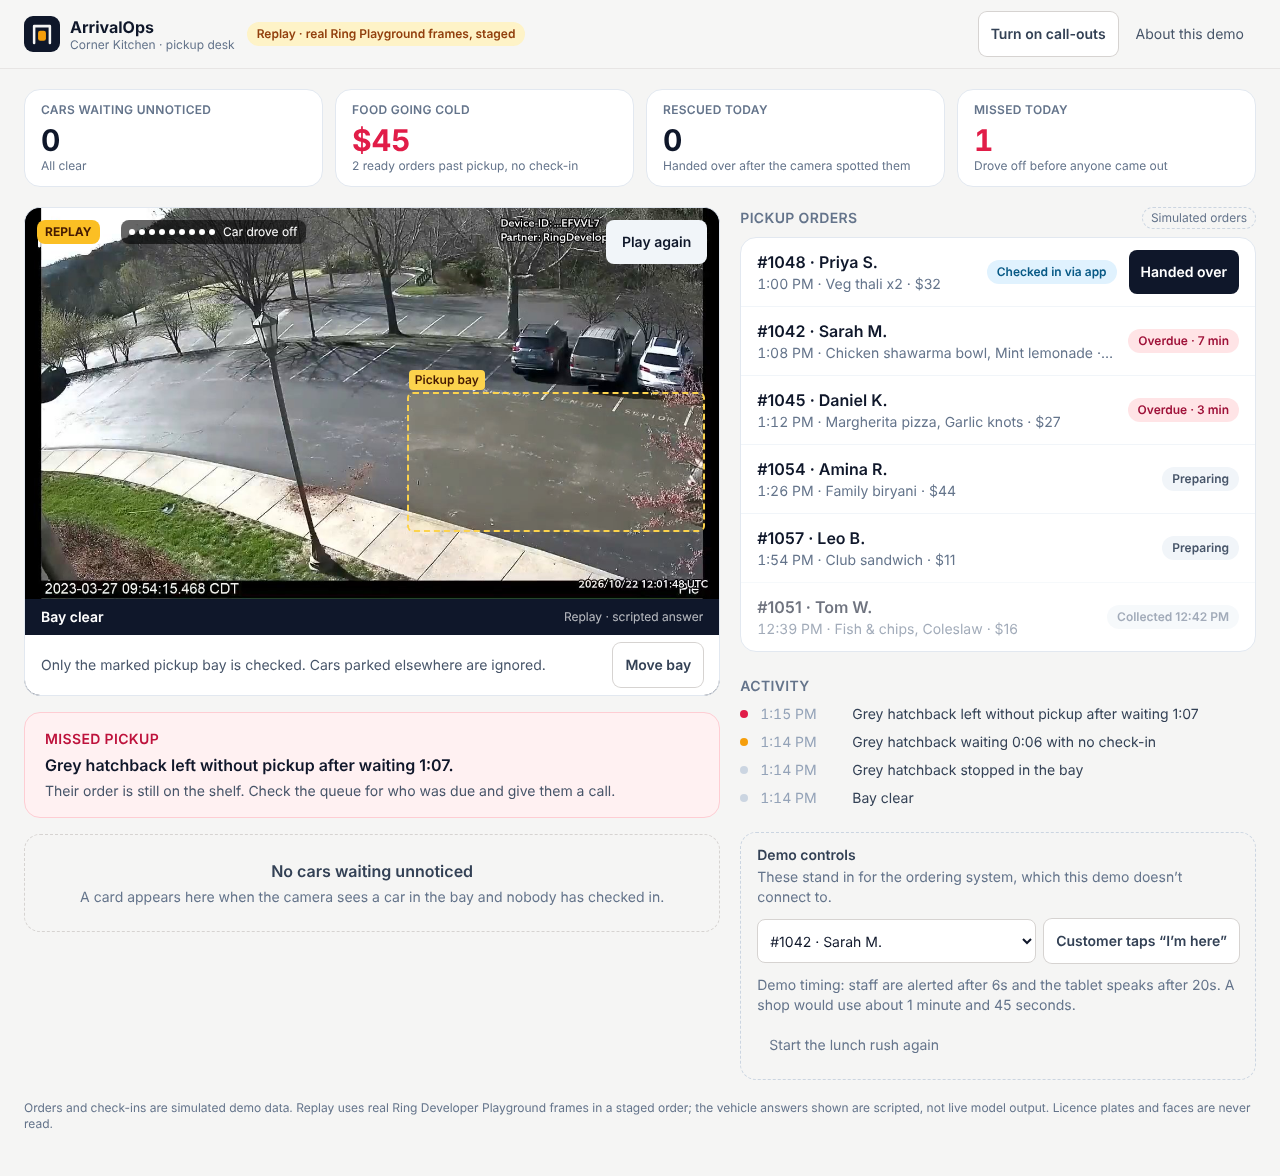
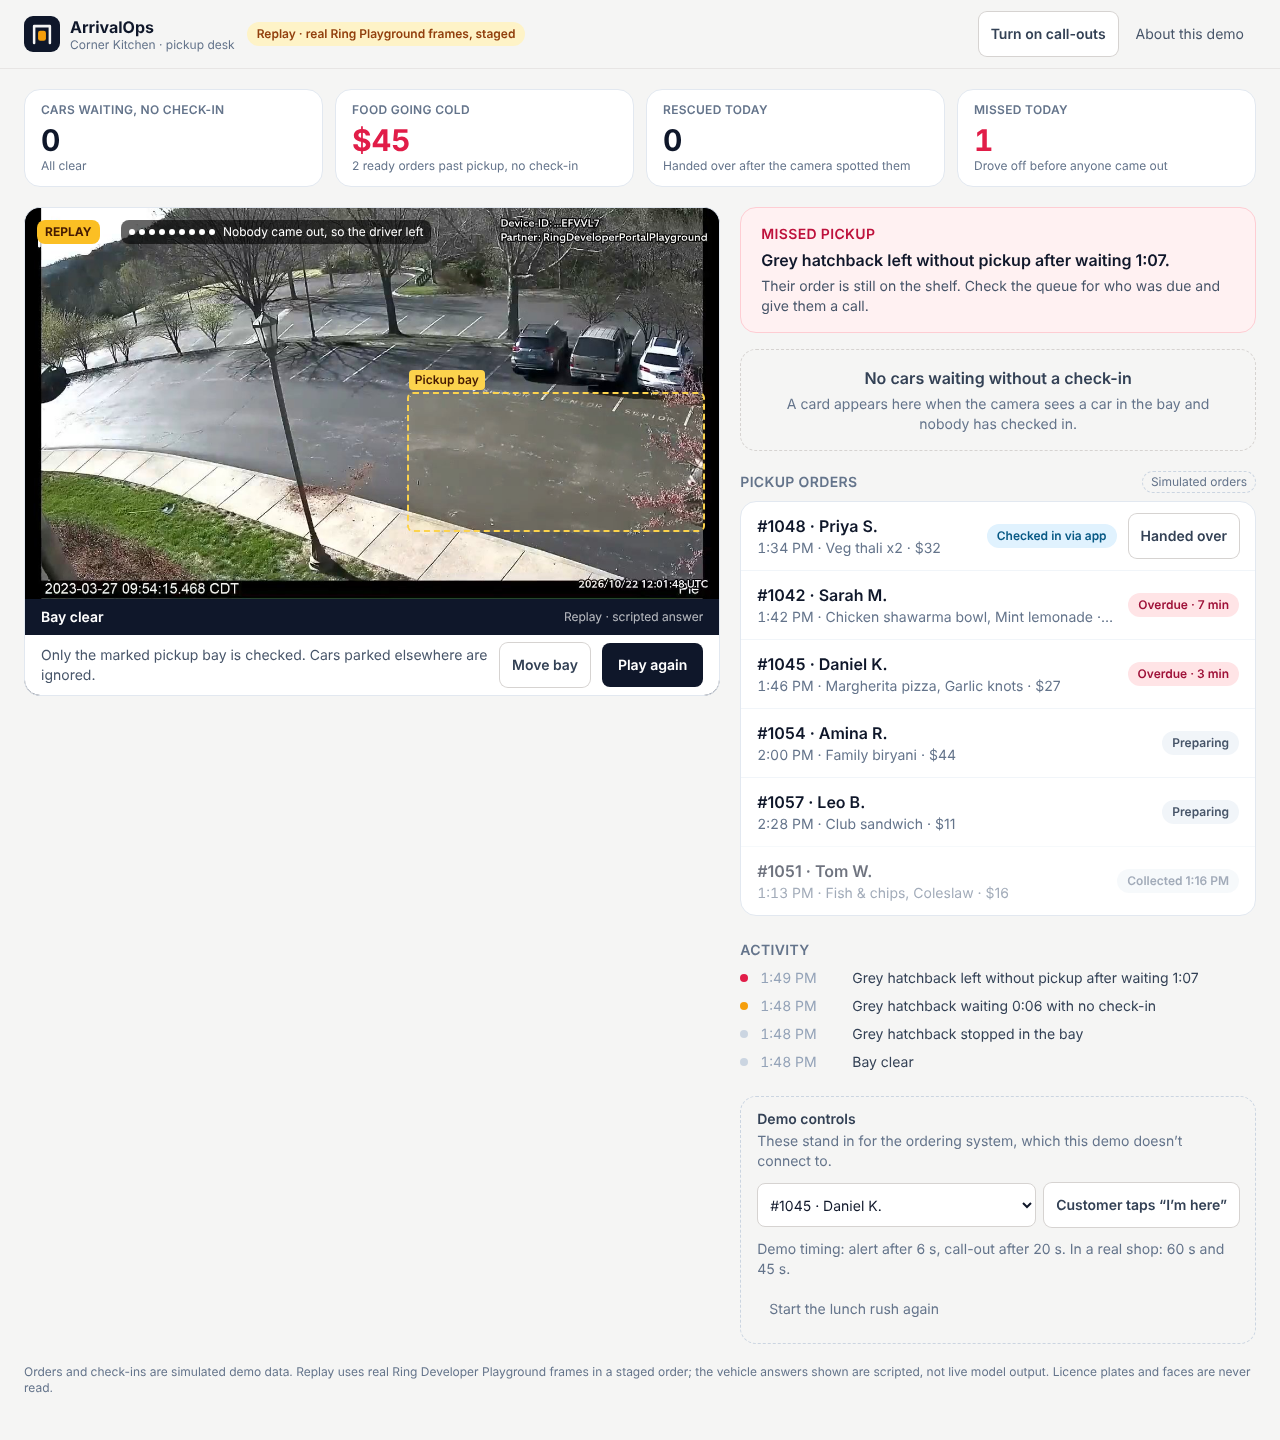
Put the case beside the camera and tighten the demo story
- On a laptop the case card appears at the top of the right column beside the camera (sticky), above the fold; on a phone it comes first
- Starting a replay on a demo board starts the lunch rush over, keeping the owner's bay, so the described customer is never already checked in
- Demo controls default to a customer who didn't describe their car
- KPI renamed "Cars waiting, no check-in"; no confidence shown on scripted answers
- Solid sticky header, secondary "Handed over" buttons, clearer replay captions and demo timing text
- About explains Ring's two timestamps; Next dev indicator off

Claude-Session: https://claude.ai/code/session_01XLxdMuz4CHjxyzH3kVFwLZ

diff --git a/app/page.tsx b/app/page.tsx
@@ -46,7 +46,7 @@ export default function Desk() {
 
   return (
     <main className="min-h-screen bg-stone-100 text-slate-900">
-      <header className="sticky top-0 z-10 border-b border-stone-200 bg-stone-100/95">
+      <header className="sticky top-0 z-10 border-b border-stone-200 bg-stone-100">
         <div className="mx-auto flex max-w-7xl flex-wrap items-center gap-x-3 gap-y-2 px-4 py-3 sm:px-6">
           <div className="flex items-center gap-2.5">
             <Logo />
@@ -96,64 +96,63 @@ export default function Desk() {
       <div className="mx-auto max-w-7xl space-y-5 px-4 py-5 sm:px-6">
         <Kpis m={view.metrics} />
 
-        <div className="grid grid-cols-[minmax(0,1fr)] gap-5 lg:grid-cols-[minmax(0,1.35fr)_minmax(0,1fr)]">
-          <div className="flex flex-col gap-4">
-            {/* On a phone the case card matters most, so it comes before the camera. */}
-            <div className="order-2 lg:order-1">
-              <CameraPanel
-                live={live}
-                latest={view.observations[0]}
-                replay={replay}
-                startReplay={startReplay}
-                stopReplay={stopReplay}
-                onObserved={refresh}
-                settings={view.settings}
+        {/* On a laptop the camera stays on the left and anything staff must act on appears beside it, at the top
+            of the right column, so it is never below the fold. On a phone it comes first, above the camera. */}
+        <div className="grid grid-cols-[minmax(0,1fr)] items-start gap-5 lg:grid-cols-[minmax(0,1.35fr)_minmax(0,1fr)]">
+          <div className="space-y-4 lg:col-start-2 lg:row-start-1" aria-live="polite">
+            {active.map((c) => (
+              <CaseCard
+                key={c.id}
+                c={c}
+                calloutSeconds={view.settings.calloutSeconds}
+                orders={view.orders}
+                observations={view.observations}
+                now={now}
                 busy={busy}
                 act={act}
               />
-            </div>
-            <div className="order-1 space-y-4 lg:order-2" aria-live="polite">
-              {active.map((c) => (
-                <CaseCard
-                  key={c.id}
-                  c={c}
-                  calloutSeconds={view.settings.calloutSeconds}
-                  orders={view.orders}
-                  observations={view.observations}
-                  now={now}
-                  busy={busy}
-                  act={act}
-                />
-              ))}
-              {watching.map((c) => (
-                <WatchingCard
-                  key={c.id}
-                  c={c}
-                  obs={view.observations.find((o) => o.id === c.observationIds[0])}
-                  dwellSeconds={view.settings.dwellSeconds}
-                  now={now}
-                />
-              ))}
-              {missedText && (
-                <div className="rounded-2xl border border-rose-200 bg-rose-50 px-5 py-4">
-                  <p className="text-sm font-semibold uppercase tracking-wide text-rose-700">Missed pickup</p>
-                  <p className="mt-1 font-semibold text-slate-900">{missedText}.</p>
-                  <p className="mt-1 text-sm text-slate-600">
-                    Their order is still on the shelf. Check the queue for who was due and give them a call.
-                  </p>
-                </div>
-              )}
-              {!active.length && !watching.length && (
-                <div className="rounded-2xl border border-dashed border-stone-300 px-5 py-6 text-center">
-                  <p className="font-semibold text-slate-700">No cars waiting unnoticed</p>
-                  <p className="mt-1 text-sm text-slate-500">
-                    A card appears here when the camera sees a car in the bay and nobody has checked in.
-                  </p>
-                </div>
-              )}
-            </div>
+            ))}
+            {watching.map((c) => (
+              <WatchingCard
+                key={c.id}
+                c={c}
+                obs={view.observations.find((o) => o.id === c.observationIds[0])}
+                dwellSeconds={view.settings.dwellSeconds}
+                now={now}
+              />
+            ))}
+            {missedText && (
+              <div className="rounded-2xl border border-rose-200 bg-rose-50 px-5 py-4">
+                <p className="text-sm font-semibold uppercase tracking-wide text-rose-700">Missed pickup</p>
+                <p className="mt-1 font-semibold text-slate-900">{missedText}.</p>
+                <p className="mt-1 text-sm text-slate-600">
+                  Their order is still on the shelf. Check the queue for who was due and give them a call.
+                </p>
+              </div>
+            )}
+            {!active.length && !watching.length && (
+              <div className="rounded-2xl border border-dashed border-stone-300 px-5 py-4 text-center">
+                <p className="font-semibold text-slate-700">No cars waiting without a check-in</p>
+                <p className="mt-1 text-sm text-slate-500">
+                  A card appears here when the camera sees a car in the bay and nobody has checked in.
+                </p>
+              </div>
+            )}
           </div>
-          <div className="space-y-6">
+          <div className="lg:sticky lg:top-24 lg:col-start-1 lg:row-span-2 lg:row-start-1">
+            <CameraPanel
+              live={live}
+              latest={view.observations[0]}
+              replay={replay}
+              startReplay={startReplay}
+              stopReplay={stopReplay}
+              onObserved={refresh}
+              settings={view.settings}
+              busy={busy}
+              act={act}
+            />
+          </div>
+          <div className="space-y-6 lg:col-start-2">
             <PickupQueue orders={view.orders} now={now} busy={busy} act={act} />
             <Activity entries={view.activity} />
             {!live && (

diff --git a/app/components/desk/CaseCard.tsx b/app/components/desk/CaseCard.tsx
@@ -61,12 +61,16 @@ export function CaseCard({ c, calloutSeconds, orders, observations, now, busy, a
     <article
       className={`rounded-2xl border-2 bg-white p-5 shadow-sm transition motion-safe:animate-case-in ${urgent ? 'border-amber-500 ring-4 ring-amber-200' : 'border-amber-300'}`}
     >
-      <div className="flex gap-4">
+      <div className="flex flex-col gap-4 sm:flex-row">
         {obs?.frame ? (
           // eslint-disable-next-line @next/next/no-img-element
-          <img src={obs.frame} alt="Camera frame of the pickup bay" className="h-28 w-44 flex-none rounded-lg bg-slate-200 object-cover" />
+          <img
+            src={obs.frame}
+            alt="Camera frame of the pickup bay"
+            className="h-44 w-full flex-none rounded-lg bg-slate-200 object-cover sm:h-24 sm:w-36"
+          />
         ) : (
-          <div className="flex h-28 w-44 flex-none items-center justify-center rounded-lg bg-slate-100 text-xs text-slate-400">
+          <div className="flex h-24 w-36 flex-none items-center justify-center rounded-lg bg-slate-100 text-xs text-slate-400">
             No frame
           </div>
         )}
@@ -74,11 +78,14 @@ export function CaseCard({ c, calloutSeconds, orders, observations, now, busy, a
           <p className="text-sm font-semibold uppercase tracking-wide text-amber-700">
             {unclear ? 'Camera unsure · please check' : 'Waiting · no check-in'}
           </p>
-          <h3 className="mt-1 text-2xl font-bold text-slate-900">{vehicleLabel(obs)} in the pickup bay</h3>
+          <h3 className="mt-1 text-xl font-bold leading-tight text-slate-900">{vehicleLabel(obs)} in the pickup bay</h3>
           <p className="mt-1 text-slate-600">
             Waiting <span className={`font-semibold tabular-nums ${urgent ? 'text-amber-700' : 'text-slate-900'}`}>{clock(waiting)}</span>
             {c.chimeAnnouncedAt && ' · called out on the counter tablet'}
-            {obs && <span className="text-slate-400"> · {Math.round(obs.vision.confidence * 100)}% sure</span>}
+            {/* A scripted replay answer has no real confidence, so none is shown. */}
+            {obs && obs.vision.model !== 'scripted answer' && (
+              <span className="text-slate-400"> · {Math.round(obs.vision.confidence * 100)}% sure</span>
+            )}
           </p>
         </div>
       </div>

diff --git a/app/components/desk/DemoControls.tsx b/app/components/desk/DemoControls.tsx
@@ -3,7 +3,7 @@
 import { useState } from 'react'
 import type { ActionInput } from '@/lib/arrivalops/store'
 import type { DeskSettings, Order } from '@/lib/arrivalops/types'
-import { clock } from './format'
+import { SHOP_SETTINGS } from '@/lib/arrivalops/reconcile'
 
 interface Props {
   orders: Order[]
@@ -20,7 +20,8 @@ interface Props {
 export function DemoControls({ orders, settings, busy, act, onReset }: Props) {
   const waiting = orders.filter((o) => !o.checkIn && !o.handedOverAt)
   const [orderId, setOrderId] = useState('')
-  const selected = waiting.find((o) => o.id === orderId) ?? waiting[0]
+  // Default to a customer who didn't describe their car, so one tap doesn't spoil the replay's match.
+  const selected = waiting.find((o) => o.id === orderId) ?? waiting.find((o) => !o.vehicleHint) ?? waiting[0]
 
   return (
     <section aria-labelledby="demo-h" className="rounded-2xl border border-dashed border-slate-300 px-4 py-3 text-sm">
@@ -58,8 +59,8 @@ export function DemoControls({ orders, settings, busy, act, onReset }: Props) {
 
       {settings.demoTiming && (
         <p className="mt-3 text-slate-500">
-          Demo timing: staff are alerted after {clock(settings.dwellSeconds)} and the tablet speaks after {clock(settings.calloutSeconds)}.
-          A shop would use about 1 minute and 45 seconds.
+          Demo timing: alert after {settings.dwellSeconds} s, call-out after {settings.calloutSeconds} s. In a real shop:{' '}
+          {SHOP_SETTINGS.dwellSeconds} s and {SHOP_SETTINGS.calloutSeconds} s.
         </p>
       )}
       <button disabled={busy} onClick={onReset} className="mt-2 min-h-11 rounded-lg px-3 text-slate-500 hover:bg-stone-200">

diff --git a/lib/arrivalops/replay.ts b/lib/arrivalops/replay.ts
@@ -31,13 +31,13 @@ const step = (delayMs: number, frame: 'clear' | 'car', note: string): ReplayStep
 // About 80 seconds: the car stops, staff are alerted after the demo dwell time, the tablet calls it out if
 // nobody acts, and if the visitor still does nothing the customer gives up and drives off.
 export const DEFAULT_STEPS: ReplayStep[] = [
-  step(0, 'clear', 'Pickup bays clear'),
-  step(4000, 'car', 'Car stops in the pickup bay'),
-  step(7000, 'car', 'Still there, staff alerted'),
-  step(10_000, 'car', 'Still waiting'),
-  step(10_000, 'car', 'Still waiting'),
-  step(10_000, 'car', 'Still waiting'),
-  step(10_000, 'car', 'Still waiting'),
-  step(10_000, 'car', 'Still waiting'),
-  step(10_000, 'clear', 'Car drove off'),
+  step(0, 'clear', 'Pickup bay empty'),
+  step(4000, 'car', 'A car pulls in. Nobody has checked in'),
+  step(7000, 'car', 'Still there, so staff are alerted'),
+  step(10_000, 'car', 'Driver still waiting for someone to come out'),
+  step(10_000, 'car', 'Driver still waiting for someone to come out'),
+  step(10_000, 'car', 'Driver still waiting for someone to come out'),
+  step(10_000, 'car', 'Driver still waiting for someone to come out'),
+  step(10_000, 'car', 'Driver still waiting for someone to come out'),
+  step(10_000, 'clear', 'Nobody came out, so the driver left'),
 ]

diff --git a/lib/arrivalops/store.ts b/lib/arrivalops/store.ts
@@ -127,17 +127,28 @@ export function dispatch(input: unknown, ctx = ctxNow(), boardId = SHOP_BOARD) {
       updateSettings(state, patch, ctx)
       break
     }
-    case 'reset':
+    case 'reset': {
+      const settings = state.settings // the bay and timings the owner set survive a fresh lunch rush
       state = fresh(boardId, ctx.now)
+      if (settings) state.settings = settings
       g.__arrivalops!.set(boardId, state)
       break
+    }
   }
   save(state, boardId)
   return view(state, ctx.now)
 }
 
-/** A replay started again before the last one finished: its car shouldn't linger or count as missed. */
+/**
+ * Called when a replay starts. A visitor's demo board starts the lunch rush over, so the story always begins
+ * with the customer who described their car still not checked in. On the shop board, only a half-played car
+ * from an earlier run is cleared, without counting it as missed.
+ */
 export function restartReplay(ctx = ctxNow(), boardId = SHOP_BOARD) {
+  if (boardId !== SHOP_BOARD) {
+    dispatch({ action: 'reset' }, ctx, boardId)
+    return
+  }
   const state = getState(boardId)
   if (closeOpenSightings(state, ctx, 'Replay restarted; the earlier car was cleared')) save(state, boardId)
 }

diff --git a/app/components/desk/AboutDemo.tsx b/app/components/desk/AboutDemo.tsx
@@ -9,9 +9,9 @@ const ROWS: Array<[string, string]> = [
   ],
   [
     'Amazon Bedrock (Nova Lite) answering on frames from that video',
-    'Replay mode: real frames from the Playground’s Vehicle stream, played in a staged order (the clip never shows a car pulling in and waiting)',
+    'Replay mode: real frames from the Playground’s Vehicle stream, played in a staged order because the clip never shows a car pulling in and waiting. The stamps on the picture are Ring’s own: when the clip was filmed (2023) and when the Playground streamed it to us (2026). Until recorded Bedrock answers are added, the vehicle answers in replay are scripted.',
   ],
-  ['Reconciliation, metrics, undo and this desk', 'The 45-second call-out plays on this device, not on a Ring Chime'],
+  ['Reconciliation, metrics, undo and this desk', 'The spoken call-out plays on this device, not on a Ring Chime'],
 ]
 
 export function AboutDemo({ open, onClose }: { open: boolean; onClose: () => void }) {

diff --git a/app/components/desk/PickupQueue.tsx b/app/components/desk/PickupQueue.tsx
@@ -59,7 +59,7 @@ export function PickupQueue({ orders, now, busy, act }: Props) {
                 <button
                   disabled={busy}
                   onClick={() => act({ action: 'hand_over', orderId: o.id })}
-                  className="min-h-11 flex-none rounded-lg bg-slate-900 px-3 text-sm font-semibold text-white hover:bg-slate-700 disabled:opacity-50"
+                  className="min-h-11 flex-none rounded-lg bg-white px-3 text-sm font-semibold text-slate-700 ring-1 ring-stone-300 hover:bg-stone-50 disabled:opacity-50"
                 >
                   Handed over
                 </button>

diff --git a/app/components/desk/Kpis.tsx b/app/components/desk/Kpis.tsx
@@ -15,10 +15,10 @@ export function Kpis({ m }: { m: Metrics }) {
   return (
     <div className="grid grid-cols-2 gap-3 lg:grid-cols-4">
       <Tile
-        label="Cars waiting unnoticed"
+        label="Cars waiting, no check-in"
         value={String(m.openCases)}
         tone={m.openCases ? 'text-amber-600' : 'text-slate-900'}
-        sub={m.openCases ? 'Needs someone outside' : 'All clear'}
+        sub={m.openCases ? 'Someone needs to go outside' : 'All clear'}
       />
       <Tile
         label="Food going cold"

diff --git a/lib/arrivalops/replay.test.ts b/lib/arrivalops/replay.test.ts
@@ -43,6 +43,7 @@ describe('replay recording', () => {
     play(3)
     restartReplay({ now: new Date(Date.now() + 60_000), id: (p) => `${p}_restart` }, 'replay-test')
     const v = view(getState('replay-test'))
+    expect(v.orders.find((o) => o.vehicleHint === 'grey hatchback')?.checkIn).toBeUndefined()
     expect(v.cases.filter((c) => c.status === 'needs_review' || c.status === 'watching')).toHaveLength(0)
     expect(v.metrics.missedToday).toBe(0)
   })

diff --git a/next.config.js b/next.config.js
@@ -1,6 +1,7 @@
 /** @type {import('next').NextConfig} */
 const nextConfig = {
   outputFileTracingRoot: __dirname,
+  devIndicators: false,
   webpack: (config, { isServer }) => {
     if (!isServer) {
       config.resolve.fallback = {
